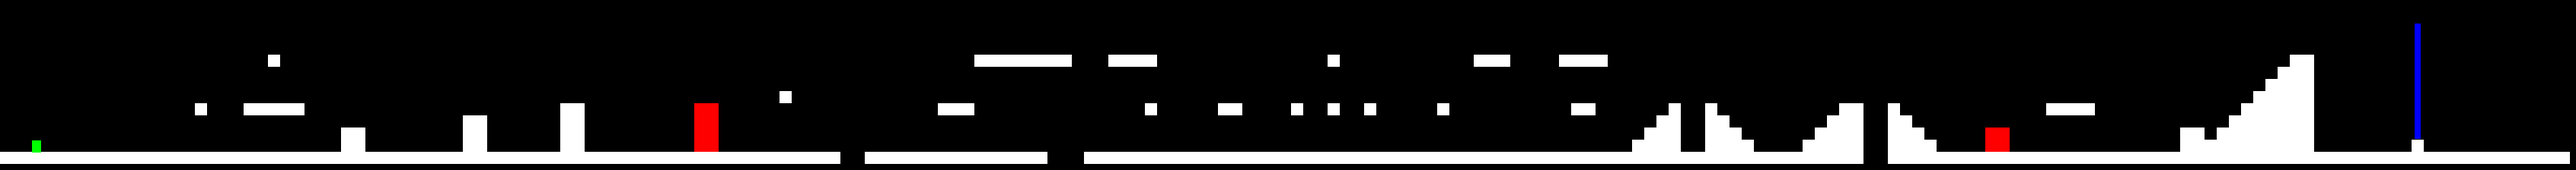
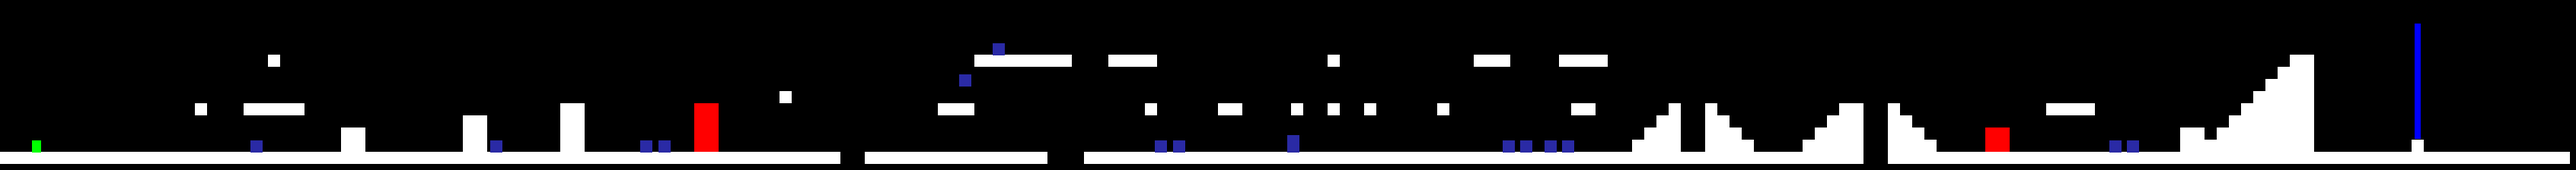
correct the build problem

diff --git a/main.cpp b/main.cpp
@@ -20,6 +20,7 @@ using namespace jsoncons;
 
 JSONCONS_ALL_MEMBER_TRAITS(collision_t, x, y, height, width);
 JSONCONS_ALL_MEMBER_TRAITS(pipe_t, x, y, height, width, id, inside, go_id);
+JSONCONS_ALL_MEMBER_TRAITS(enemy, x, y, height, width);
 
 int main(int argc, char* argv[]) {
 	if (argc != 2) return 0;
@@ -33,7 +34,7 @@ int main(int argc, char* argv[]) {
 	std::string end_textures_path = base_path + sprite_path + "\\End";
 	std::string pipe_textures_path = base_path + sprite_path + "\\Pipes";
 	std::string enemies_textures_path = base_path + sprite_path + "\\Enemies";
-	std::map<cv::Mat, type_enemy> maptypenemy;
+	std::map<int, type_enemy> maptypenemy;
 	
 	// Fetch level image.
 	cv::Mat level_image = cv::imread(level_image_path);
@@ -129,8 +130,9 @@ int main(int argc, char* argv[]) {
 
 	// Identify enemies in level image.
 	std::vector<enemy> enemy_raw;
-	for (const cv::Mat& enemy_texture : enemies_textures) {
-		type_enemy tEnemy = maptypenemy[enemy_texture];
+	for (int i = 0; i < enemies_textures.size(); i++) {
+		const cv::Mat& enemy_texture = enemies_textures.at(i);
+		type_enemy tEnemy = maptypenemy[i];
 		cv::Mat enemy_hits;
 		cv::matchTemplate(level_image, enemy_texture, enemy_hits, cv::TM_CCOEFF_NORMED);
 		for (int x = 0; x < enemy_hits.rows - 8; x++)
@@ -184,7 +186,7 @@ int main(int argc, char* argv[]) {
 			cv::rectangle(collision_filled_image, rect, cv::Scalar(0, 0, 255), cv::FILLED);
 		}
 		for (const enemy& enemy : enemy_raw) {
-			cv::Rect rect(enemy.x, enemy.y, enemy.width, enemy.height);
+			cv::Rect rect(enemy.y, enemy.x, enemy.width, enemy.height);
 			cv::rectangle(collision_filled_image, rect, cv::Scalar(165, 42, 42), cv::FILLED);
 		}
 		cv::Rect rectEnd(end.y, end.x, end.width, end.height);
